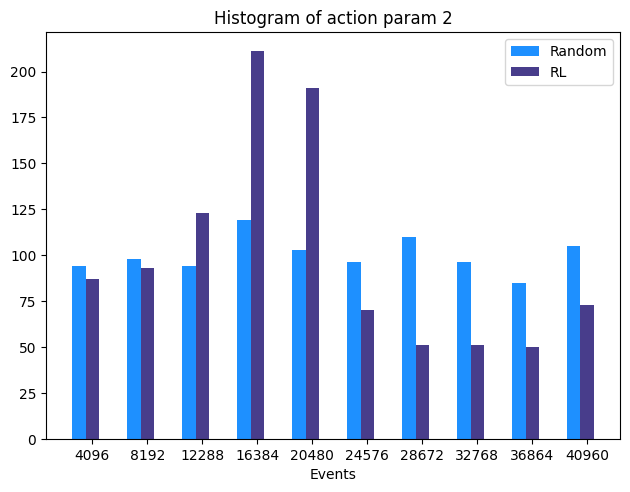
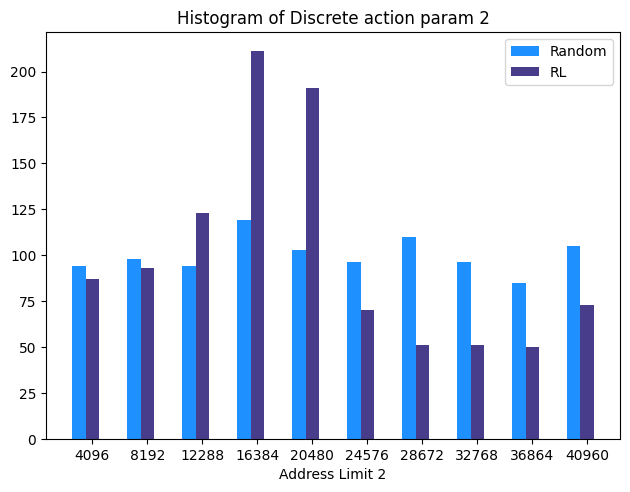
Modified Xlabel in the action plots

Changed region(s): [[0.2714, 0.0, 0.7841, 0.061], [0.4222, 0.9451, 0.6333, 0.9756]]

diff --git a/RLE_compressor/tb_with_rl/RLE_compressor_multistate_modularized/merge_plot.py b/RLE_compressor/tb_with_rl/RLE_compressor_multistate_modularized/merge_plot.py
@@ -205,20 +205,26 @@ for line in file_1:
 
             x = np.array(labels_1)
             width = 0
+            xlabel=""
+            param_num = ""
             if(i == "2"):
                 data = action_data_2
                 width = 0.3
+                xlabel = "zero counter width"
+                param_num = "1"
             elif(i == "3"):
                 data = action_data_3
                 width = 30
+                xlabel = "Number of elements in Feature Map"
+                param_num = "2"
             hist_data = np.histogram(data,bins=len(labels_1))
             hist_data_1 = np.histogram(data_1,bins=len(labels_1))
             plt.bar(x-width, hist_data[0], width, color='dodgerblue')
             plt.bar(x, hist_data_1[0], width, color='darkslateblue')
             plt.xticks(labels_1)
-            plt.xlabel("Events")
+            plt.xlabel(xlabel)
             plt.legend(["Random", "RL"])
             plt.tight_layout()
-            plt.title('Histogram of action param ' + str(i))
+            plt.title('Histogram of discrete action param ' + str(param_num))
             plt.savefig('./merge_hist_of_actions_' + str(i) + '.png', bbox_inches='tight')
             plt.close()

diff --git a/axi4_fabric_rl/merge_plot.py b/axi4_fabric_rl/merge_plot.py
@@ -203,18 +203,21 @@ for line in file_1:
 
         x = np.array(labels_1)
         width = 1000
+        xlabel = ""
         if(i == "1"):
             data = action_data_1
+            xlabel = "Address Limit 1"
         else:
             data = action_data_2
+            xlabel = "Address Limit 2"
         hist_data = np.histogram(data,bins=10)
         hist_data_1 = np.histogram(data_1,bins=10)
         plt.bar(x-1000, hist_data[0], width, color='dodgerblue')
         plt.bar(x, hist_data_1[0], width, color='darkslateblue')
         plt.xticks(labels_1)
-        plt.xlabel("Events")
+        plt.xlabel(xlabel)
         plt.legend(["Random", "RL"])
         plt.tight_layout()
-        plt.title('Histogram of action param ' + str(i))
+        plt.title('Histogram of Discrete action param ' + str(i))
         plt.savefig('./merge_hist_of_actions_' + str(i) + '.png', bbox_inches='tight')
         plt.close()
